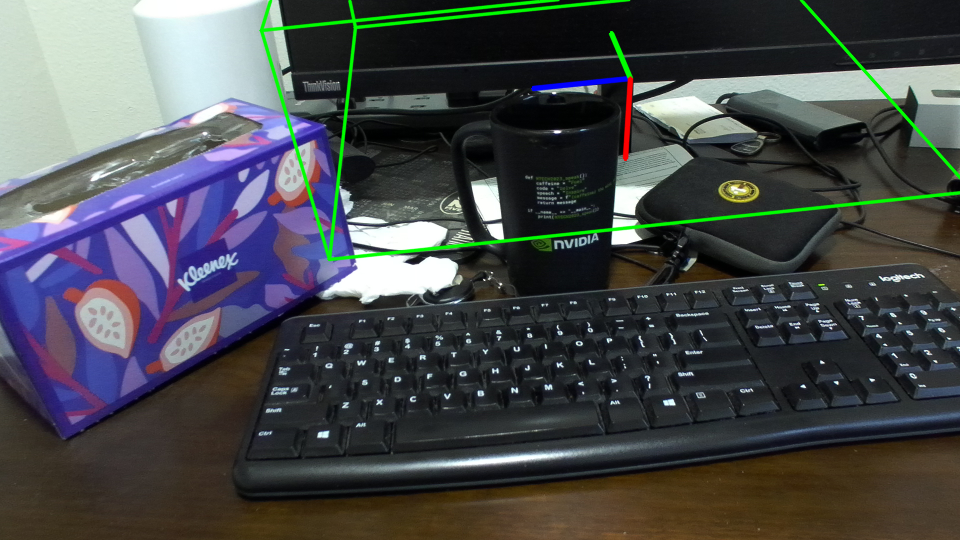
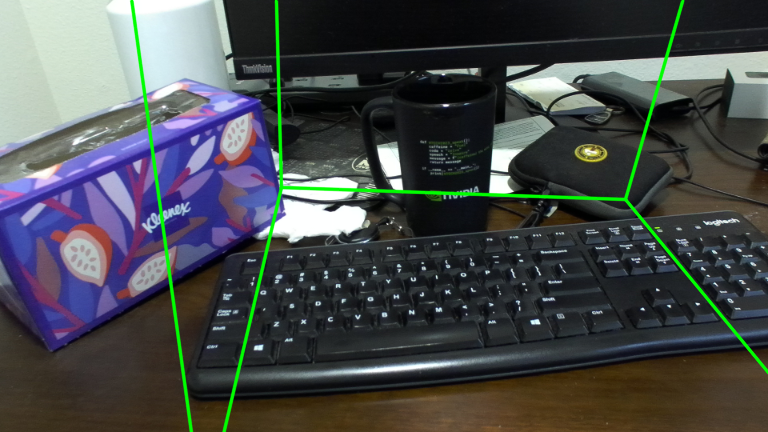
test update

diff --git a/test_demo.py b/test_demo.py
@@ -40,7 +40,7 @@ def main():
     glctx = dr.RasterizeCudaContext()
     n = bboxes.shape[0]
 
-    for i in range(1):
+    for i in range(n):
         ob_mask = ob_masks[i]
         bbox = bboxes[i]
         vis = rgb.copy()